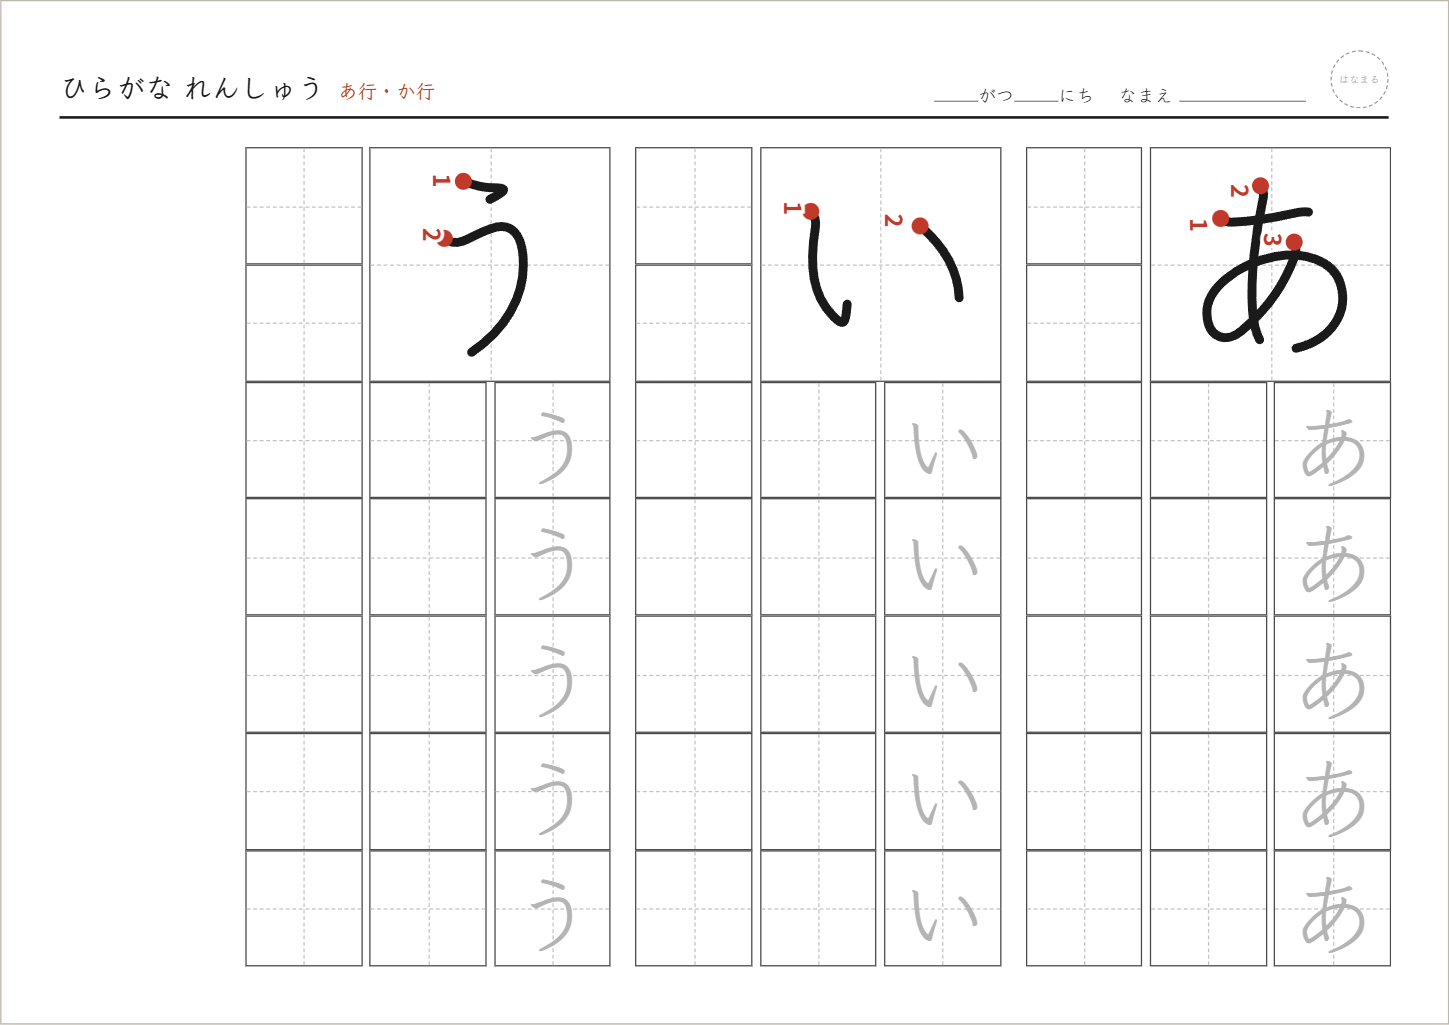
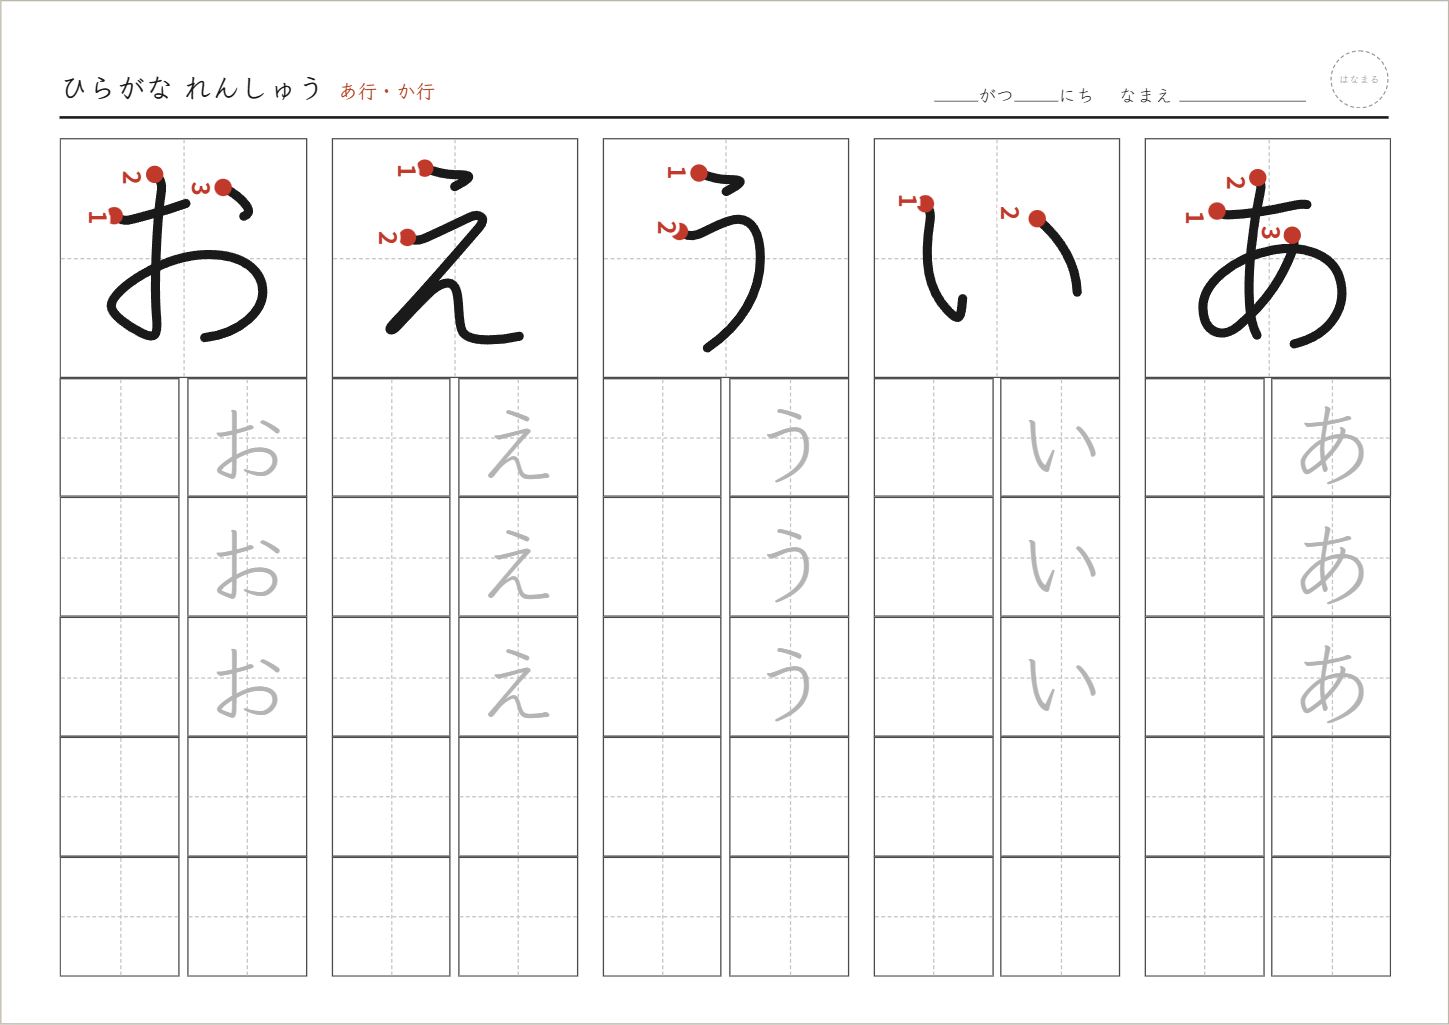
行れんしゅうを用紙の幅にぴったり収め、大きな手本に書き順を付ける
- 4マス分の大きな手本には、設定にかかわらず書き順の番号をすべて付ける
- 文字をページに均等に分け、左右に余白が残らないようマスの大きさを合わせる
  （あ行の5文字は A4 横1枚にちょうど収まる）
- 書く列の数の初期値を1列にし、手本の下のなぞり字を「なぞる数」（初期値3）にする
- 書き順データで描く小書き文字が上のマスにはみ出さないようにする
- Service Worker のキャッシュ名を更新
- README・利用ガイド・スクリーンショットを新しいレイアウトに合わせる

diff --git a/public/sheets.js b/public/sheets.js
@@ -199,16 +199,21 @@ function fadeColumnsBlock(text, dims, s, ctx, { gap, head } = {}) {
 
 // ===== A. 行れんしゅう =====
 // 1文字ぶんは、右上に 4マス分（2×2）の大きな手本を1つ。
-// その下の右の列をうすいなぞり字、左の列を空マスにし、さらに左へ空マスの列を続ける。
+// その下の右の列は上から traceCount 個をうすいなぞり字、残りを空マスにする。
+// 手本の下の左の列と、さらに左へ続く列は空マス。
 //   cfg.blankCols: 書く列（空マスの列）の数。手本の下の左の列も1つに数える。
-function repeatLine(unit, kind, cap, s, gap, extra = {}) {
+// kindAt(i): i 個目（0始まり）のマスの種類と追加の指定
+function repeatLine(unit, kindAt, cap, s, gap) {
   const len = [...unit].length * s;
   const count = Math.max(1, Math.floor((cap + gap + 0.01) / (len + gap)));
-  return flow(Array.from({ length: count },
-    () => ({ cells: cellsOf(unit, kind, { unit, ...extra }), gapBefore: gap })), cap, s)[0];
+  return flow(Array.from({ length: count }, (_, i) => {
+    const [kind, extra] = kindAt(i);
+    return { cells: cellsOf(unit, kind, { unit, ...extra }), gapBefore: gap };
+  }), cap, s)[0];
 }
+const BLANK = () => ['blank', {}];
 
-function bigModelBlock(unit, dims, s, ctx, blankCols) {
+function bigModelBlock(unit, dims, s, ctx, blankCols, traceCount) {
   const chars = [...unit];
   const gap = chars.length > 1 ? SLOT_GAP : 0;
   // 幅は2列ぶん（列のすきまも含む）、高さは2マスぶんにして、下と左の列にそろえる
@@ -221,8 +226,10 @@ function bigModelBlock(unit, dims, s, ctx, blankCols) {
   top.className = 'line';
   const model = document.createElement('div');
   model.className = 'cell-group';
+  // 大きな手本には、設定にかかわらず書き順の番号をすべて付ける
+  const modelCtx = { ...ctx, strokeNumbers: true };
   chars.forEach(ch => {
-    const box = cell({ kind: 'model', ch, unit }, big, ctx);
+    const box = cell({ kind: 'model', ch, unit }, big, modelCtx);
     box.style.blockSize = (big + GAP_IN) + 'mm';
     model.appendChild(box);
   });
@@ -230,8 +237,9 @@ function bigModelBlock(unit, dims, s, ctx, blankCols) {
 
   const under = document.createElement('div');
   under.className = 'under-model';
-  const trace = repeatLine(unit, 'trace', rest, s, gap, { color: traceColor(0, 1, false) });
-  const firstBlank = repeatLine(unit, 'blank', rest, s, gap);
+  const traceColorValue = traceColor(0, 1, false);
+  const trace = repeatLine(unit, i => (i < traceCount ? ['trace', { color: traceColorValue }] : BLANK()), rest, s, gap);
+  const firstBlank = repeatLine(unit, BLANK, rest, s, gap);
   const traceEl = renderLine(trace, s, ctx);
   const blankEl = renderLine(firstBlank, s, ctx);
   blankEl.style.marginBlockStart = GAP_IN + 'mm';
@@ -241,7 +249,7 @@ function bigModelBlock(unit, dims, s, ctx, blankCols) {
 
   let used = big * chars.length + trace.used;
   for (let i = 1; i < blankCols; i++) {
-    const line = repeatLine(unit, 'blank', dims.inline, s, gap);
+    const line = repeatLine(unit, BLANK, dims.inline, s, gap);
     const lineEl = renderLine(line, s, ctx);
     lineEl.style.marginBlockStart = GAP_IN + 'mm';
     el.appendChild(lineEl);
@@ -251,11 +259,28 @@ function bigModelBlock(unit, dims, s, ctx, blankCols) {
   return { el, size: cols * s + (cols - 1) * GAP_IN, used };
 }
 
+// 1枚に並べる文字の数を決め、用紙の幅（右から左）にぴったり収まるようにマスの大きさを合わせる。
+// ページの数を1枚から順に試し、文字をページに均等に分けたときのマスの大きさが、
+// 選んだ大きさにいちばん近い分け方を選ぶ（あ行の5文字なら、5文字で1枚をちょうど埋める）。
+// 大きくするのは、1列に 手本2マス + なぞり + 空マス1つ が入るところまで。
+function fitCellSize(s, cols, block, between, total, maxSize) {
+  const sizeFor = n => ((block - (n - 1) * between) / n - (cols - 1) * GAP_IN) / cols;
+  let best = null;
+  for (let pages = 1; pages <= Math.max(1, total); pages++) {
+    const size = sizeFor(Math.ceil(Math.max(1, total) / pages));
+    if (size > maxSize) continue;
+    if (best === null || Math.abs(size - s) < Math.abs(best - s)) best = size;
+  }
+  if (best === null) best = maxSize; // 文字が少なすぎて埋めきれないときは上限の大きさで右から並べる
+  return Math.floor(best * 100) / 100; // 端数で次の列がはみ出さないよう切り捨てる
+}
+
 export function buildLinePages(cfg, units, ctx) {
   const dims = paperDims(cfg);
-  const s = cfg.cellSize;
-  const blocks = units.map(unit => bigModelBlock(unit, dims, s, ctx, cfg.blankCols));
   const between = 5;
+  const maxSize = dims.inline / (2 + Math.max(1, cfg.traceCount) + 1);
+  const s = fitCellSize(cfg.cellSize, cfg.blankCols + 1, dims.block, between, units.length, maxSize);
+  const blocks = units.map(unit => bigModelBlock(unit, dims, s, ctx, cfg.blankCols, cfg.traceCount));
   const maxUsed = Math.max(0, ...blocks.map(b => b.used));
   return pagesToBodies(paginate(blocks, dims, between), dims, between, maxUsed);
 }

diff --git a/public/index.html b/public/index.html
@@ -80,14 +80,14 @@
           <div class="digits-wrap">
             <label class="digit-field">書く列の数
               <select id="blankCols">
-                <option value="1">1列</option>
-                <option value="2" selected>2列</option>
+                <option value="1" selected>1列</option>
+                <option value="2">2列</option>
                 <option value="3">3列</option>
                 <option value="4">4列</option>
               </select>
             </label>
           </div>
-          <div class="help-text">1文字ごとに、右上に4マス分の大きな手本を1つ置きます。手本の下の右の列はうすいなぞり字、そこから左は自分で書く空マスの列です。書く列の数には、手本の下の左の列も入ります。</div>
+          <div class="help-text">1文字ごとに、右上に4マス分の大きな手本（書き順の番号つき）を1つ置きます。手本の下の右の列は上から「なぞる数」だけうすいなぞり字（残りは空マス）、そこから左は自分で書く空マスの列です。書く列の数には、手本の下の左の列も入ります。用紙の幅にぴったり収まるよう、マスの大きさは少しだけ調整されます。</div>
         </div>
 
         <div class="op-block" data-for="word">
@@ -223,7 +223,7 @@
             </select>
           </label>
         </div>
-        <div class="help-text">目安：年少・年中は特大、年長は大、小学1年は中。字の大きさはマスに対する大きさです。行れんしゅうは なぞりが1列に決まっているので、なぞる数は使いません。</div>
+        <div class="help-text">目安：年少・年中は特大、年長は大、小学1年は中。字の大きさはマスに対する大きさです。行れんしゅうでは、なぞる数は手本の下の列に入れるなぞり字のマスの数です。</div>
 
         <div class="form-group" style="margin-top:1rem;">
           <label for="glyphSelect">字のかたち</label>
@@ -250,7 +250,7 @@
           <label class="check-row"><input type="checkbox" id="opt-start" checked> 書き順の番号に、書きはじめの●を添える</label>
           <label class="check-row"><input type="checkbox" id="opt-guides" checked> マスに十字の点線を入れる</label>
         </div>
-        <div class="help-text">番号つきの手本は書き順データの字形（えんぴつ風）で表示します。1もじじっくりの大きな手本には、いつも番号が付きます。</div>
+        <div class="help-text">番号つきの手本は書き順データの字形（えんぴつ風）で表示します。行れんしゅう・1もじじっくりの大きな手本には、いつも番号が付きます。</div>
       </div>
     </details>
 

diff --git a/public/app.js b/public/app.js
@@ -112,11 +112,11 @@ function applyConfig(cfg) {
 const SEION = ROWS.filter(r => r.group === 'seion').map(r => r.key);
 const RECOMMEND = {
   first: { format: 'single', script: 'hira', source: 'rows', rows: ['a'], cellSize: 30, glyph: 'stroke', traceStyle: 'dot', traceCount: 4, singleLines: 2, strokeNumbers: true, startDots: true, order: 'seq' },
-  nencho: { format: 'line', script: 'hira', source: 'rows', rows: ['a', 'ka'], cellSize: 24, glyph: 'klee', traceStyle: 'gray', traceCount: 3, blankCols: 2, strokeNumbers: true, startDots: true, order: 'seq' },
-  grade1: { format: 'line', script: 'hira', source: 'rows', rows: SEION, cellSize: 20, glyph: 'klee', traceStyle: 'gray', traceCount: 2, blankCols: 2, strokeNumbers: false, order: 'seq' },
+  nencho: { format: 'line', script: 'hira', source: 'rows', rows: ['a', 'ka'], cellSize: 24, glyph: 'klee', traceStyle: 'gray', traceCount: 3, blankCols: 1, strokeNumbers: true, startDots: true, order: 'seq' },
+  grade1: { format: 'line', script: 'hira', source: 'rows', rows: SEION, cellSize: 20, glyph: 'klee', traceStyle: 'gray', traceCount: 3, blankCols: 1, strokeNumbers: false, order: 'seq' },
   chart: { format: 'chart', script: 'hira', source: 'rows', rows: SEION, chartMode: 'fill', blankRate: 35, answer: true, cellSize: 24, glyph: 'klee' },
   word: { format: 'word', script: 'hira', source: 'rows', rows: ['a', 'ka', 'sa'], cellSize: 20, glyph: 'klee', traceStyle: 'gray', traceCount: 1, linesPerUnit: 1, showPicture: true, strokeNumbers: false, order: 'seq' },
-  dakuon: { format: 'line', script: 'hira', source: 'rows', rows: ['ga', 'za', 'da', 'ba', 'pa', 'y-き', 'y-し', 'y-ち'], cellSize: 20, glyph: 'klee', traceStyle: 'gray', traceCount: 2, blankCols: 2, strokeNumbers: false, order: 'seq' },
+  dakuon: { format: 'line', script: 'hira', source: 'rows', rows: ['ga', 'za', 'da', 'ba', 'pa', 'y-き', 'y-し', 'y-ち'], cellSize: 20, glyph: 'klee', traceStyle: 'gray', traceCount: 3, blankCols: 1, strokeNumbers: false, order: 'seq' },
   katakana: { format: 'single', script: 'kata', source: 'rows', rows: ['a'], cellSize: 30, glyph: 'stroke', traceStyle: 'dot', traceCount: 4, singleLines: 2, strokeNumbers: true, startDots: true, order: 'seq' },
 };
 

diff --git a/public/style.css b/public/style.css
@@ -432,6 +432,8 @@ textarea:focus-visible { border-color: var(--color-ink-2); outline: 2px solid va
 .glyph-svg { position: relative; z-index: 1; display: block; flex: none; width: calc(100% * var(--glyph-ratio, 1)); height: calc(100% * var(--glyph-ratio, 1)); }
 .under-model { flex: none; }
 .v-small { transform: translate(20%, -44%); }
+/* 書き順データの小書き文字は枠の下・中央に描かれているので、ずらす量をフォントより小さくする */
+.glyph-svg.v-small { transform: translate(18%, -28%); }
 .v-rotate { transform: rotate(90deg); }
 
 .cell-model[data-unit], .big-glyph[data-unit] { cursor: pointer; }

diff --git a/public/sw.js b/public/sw.js
@@ -1,4 +1,4 @@
-const CACHE_NAME = 'hiragana-renshu-v3';
+const CACHE_NAME = 'hiragana-renshu-v5';
 const PRECACHE_URLS = [
   '/', '/index.html', '/style.css', '/app.js', '/store.js', '/kana.js', '/render.js', '/sheets.js',
   '/data/strokes.js', '/manifest.webmanifest', '/icons/hiragana.svg',

diff --git a/docs/USAGE.md b/docs/USAGE.md
@@ -55,11 +55,13 @@
 
 1文字ずつ練習します。1文字ごとに、次のように並びます。
 
-1. 右上に、**4マス分（2×2）の大きな手本**を1つ。
-2. 手本の下の右の列に、ふつうのマスで**うすいなぞり字を1列**。
+1. 右上に、**4マス分（2×2）の大きな手本**を1つ。書き順の番号がいつも全部付きます。
+2. 手本の下の右の列の上から、ふつうのマスで**うすいなぞり字**（「なぞる数」の数だけ。おすすめは3マス）。残りは空マス。
 3. 手本の下の左の列と、そこから左に続く列は、自分で書く**空マス**。
 
-- **書く列の数**（1〜4列）：空マスの列の数です。手本の下の左の列も1つに数えます。
+- **書く列の数**（1〜4列、はじめは1列）：空マスの列の数です。手本の下の左の列も1つに数えます。1列なら、1文字が「なぞりの列＋書く列」の2列になり、あ行の5文字がA4横1枚に収まります。
+
+用紙の左右に余白が残らないよう、文字を各ページに均等に分け、マスの大きさを用紙の幅に合わせて調整します（選んだ大きさにいちばん近くなる分け方を選びます）。たとえば、あ行の5文字はマスを少し大きくして1枚にちょうど並べます。
 
 ### 1もじじっくり
 
@@ -105,7 +107,7 @@
 
 - **マスの大きさ**：特大（30mm）／大（24mm）／中（20mm）／小（16mm）。目安は、年少・年中は特大、年長は大、小学1年は中です。
 - **字の大きさ**：小（マスの6割）／ふつう（7割半）／大（8割半）。マスに対する字の大きさで、手本・なぞり字のどちらにも効きます。
-- **なぞる数**：手本のあとに並べるなぞり字の数（なし〜6）。行れんしゅうはなぞりが1列に決まっているので使いません。ことばで「だんだんうすくする」がオンのときは、なぞりの列2つに固定です。
+- **なぞる数**：手本のあとに並べるなぞり字の数（なし〜6）。行れんしゅうでは、大きな手本の下の列に入れるなぞり字のマスの数です。ことばで「だんだんうすくする」がオンのときは、なぞりの列2つに固定です。
 - **字のかたち**
   - 教科書体風（Klee One）
   - UDデジタル教科書体：Windows に入っている書体です。ない環境では Klee One で表示します。
@@ -113,7 +115,7 @@
   - えんぴつ風：書き順データから線で描いた字です。
 - **なぞる字**：うすい字／点線（えんぴつ風の字形）。
 - **なぞる字をだんだんうすくする**：ことばでは右の列ほど濃く、左の列ほどうすくなります。1もじじっくりでは、上のなぞり字ほど濃くなります。行れんしゅうのなぞり字はいつも同じうすさです。
-- **手本に書き順の番号をつける**：番号つきの手本は、えんぴつ風の字形で表示します。
+- **手本に書き順の番号をつける**：番号つきの手本は、えんぴつ風の字形で表示します。行れんしゅう・1もじじっくりの大きな手本には、この設定にかかわらず番号が付きます。
 - **書き順の番号に、書きはじめの●を添える**
 - **マスに十字の点線を入れる**：字のバランスをとる補助線です。
 

diff --git a/README.md b/README.md
@@ -37,7 +37,7 @@
 | 行れんしゅう | 1もじじっくり | ことば |
 |:---:|:---:|:---:|
 | [![行れんしゅうのプリント](docs/screenshots/sheet-line.png)](docs/screenshots/sheet-line.png) | [![1もじじっくりのプリント](docs/screenshots/sheet-single.png)](docs/screenshots/sheet-single.png) | [![ことばのプリント](docs/screenshots/sheet-word.png)](docs/screenshots/sheet-word.png) |
-| 4マス分の大きな手本を1つ。その下にうすいなぞり字を1列、左は自分で書く空マスの列。手本には書き順の番号と書きはじめの●。 | 大きな手本と1画ずつの書き順図、例のことば（絵つき）。はじめて習う字にぴったり。 | 「あり」「いぬ」などのことばを、絵（絵文字）つきの手本の列と、なぞりの列で。 |
+| 4マス分の大きな手本（書き順の番号つき）を1つ。その下にうすいなぞり字3マス、左は自分で書く空マスの列。あ行の5文字がA4横1枚にぴったり収まります。 | 大きな手本と1画ずつの書き順図、例のことば（絵つき）。はじめて習う字にぴったり。 | 「あり」「いぬ」などのことばを、絵（絵文字）つきの手本の列と、なぞりの列で。 |
 
 | 50音ひょう（穴うめ） | 国語ノート風 |
 |:---:|:---:|
@@ -81,7 +81,7 @@
 
 ![プレビューの手本をクリックして、にがてな字に印を付けた画面](docs/screenshots/weak-mark.png)
 
-*「い」と「お」の手本の列に印を付けたところ。印は画面だけの表示で、印刷には出ません。*
+*「き」と「け」の手本に印を付けたところ。印は画面だけの表示で、印刷には出ません。*
 
 ## スマートフォンでも
 
